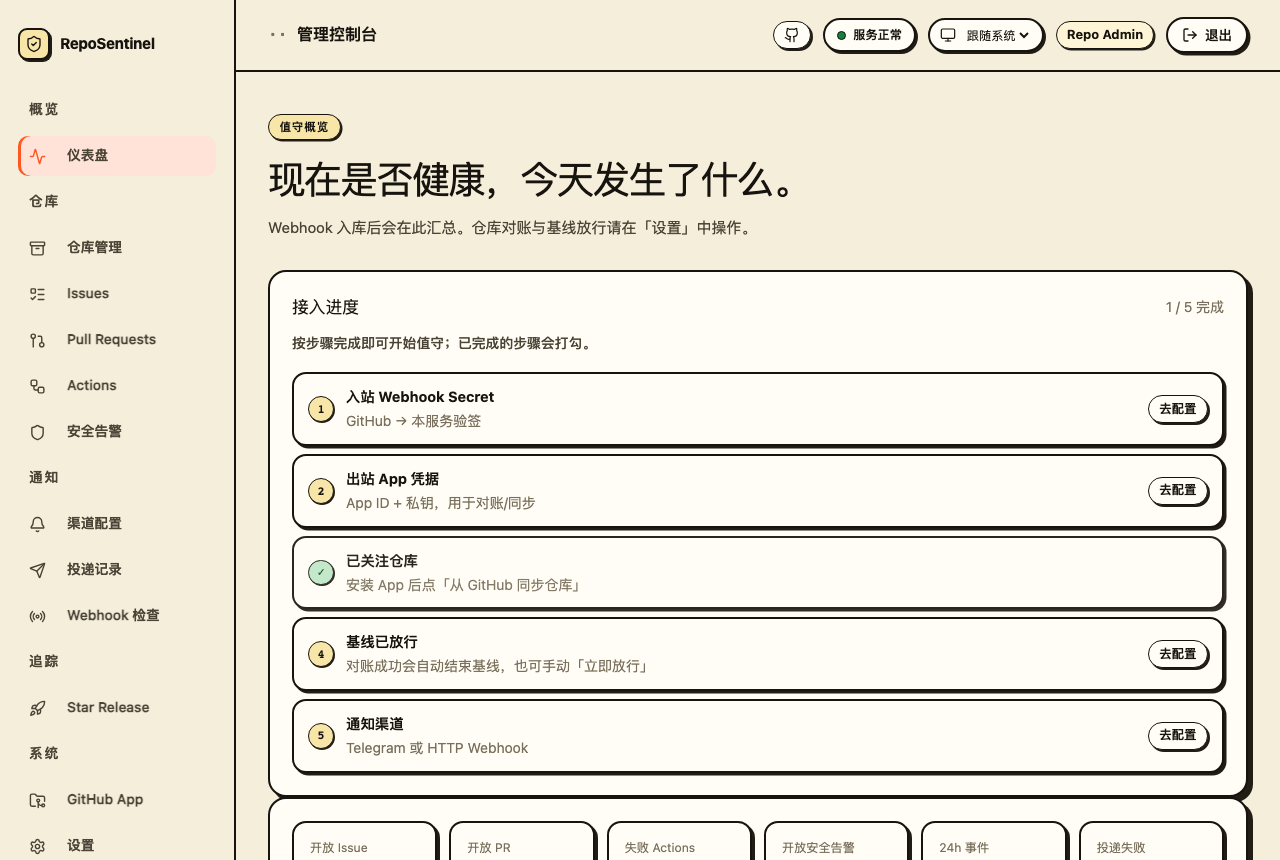
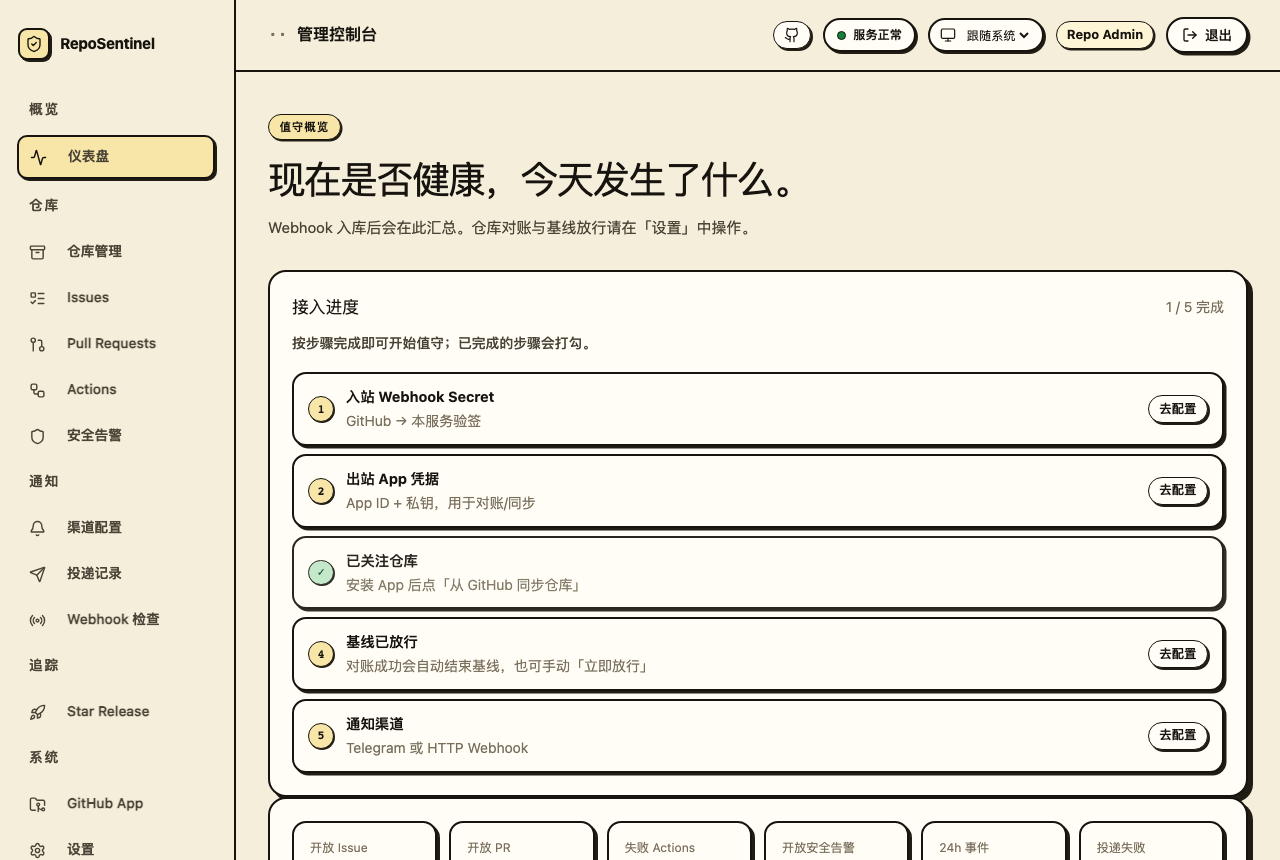
✨ feat(ui/notify): 优化界面导航与徽标设计，并增强通知主题色中文语义识别

diff --git a/web/src/styles/globals.css b/web/src/styles/globals.css
@@ -538,26 +538,28 @@ a.primary-button {
   background: color-mix(in oklch, var(--accent) 10%, var(--bg-muted));
 }
 
-/* 选中态：浅底 + 强调色文字，避免实心强调色上字看不清 */
+/* 选中态：复古新粗野主义高亮块，实体墨水描边与微物理阴影 */
 .app-nav a[aria-current="page"] {
-  color: var(--accent);
-  background: color-mix(in oklch, var(--accent) 16%, var(--bg-surface));
-  font-weight: 700;
-  box-shadow: inset 3px 0 0 var(--accent);
+  color: var(--ink);
+  background: var(--bg-panel-warm);
+  font-weight: 750;
+  border: 2px solid var(--border-subtle);
+  box-shadow: 2px 2px 0 var(--shadow-neo);
+  transform: translate(-1px, -1px);
 }
 
 .app-nav a[aria-current="page"]:hover {
-  color: var(--accent);
-  background: color-mix(in oklch, var(--accent) 20%, var(--bg-surface));
+  color: var(--ink);
+  background: var(--bg-panel-warm);
 }
 
-/* 侧边栏导航徽章：高对比数字，避免被父级 span 半透明规则污染 */
+/* 侧边栏导航徽章：1.5px 粗黑边框胶囊徽章，丝网印刷实体色彩 */
 .nav-badge {
   margin-left: auto;
   min-width: 20px;
   height: 20px;
   padding: 0 6px;
-  border-radius: 999px;
+  border-radius: 9999px;
   font-size: 0.72rem;
   font-weight: 800;
   display: inline-flex;
@@ -568,31 +570,32 @@ a.primary-button {
   line-height: 1;
   opacity: 1;
   letter-spacing: 0;
-  box-shadow: 0 0 0 1px color-mix(in oklch, var(--accent) 35%, transparent);
+  border: 1.5px solid var(--border-subtle);
+  box-shadow: 1px 1px 0 var(--shadow-neo);
 }
 
 .nav-badge--info {
-  color: var(--info);
-  background: color-mix(in oklch, var(--info) 15%, var(--bg-surface));
-  box-shadow: 0 0 0 1px color-mix(in oklch, var(--info) 30%, transparent);
+  color: var(--info-fg);
+  background: var(--info-bg);
+  border: 1.5px solid var(--border-subtle);
 }
 
 .nav-badge--success {
-  color: var(--success);
-  background: color-mix(in oklch, var(--success) 15%, var(--bg-surface));
-  box-shadow: 0 0 0 1px color-mix(in oklch, var(--success) 30%, transparent);
+  color: var(--success-fg);
+  background: var(--success-bg);
+  border: 1.5px solid var(--border-subtle);
 }
 
 .nav-badge--warning {
-  color: var(--warning);
-  background: color-mix(in oklch, var(--warning) 15%, var(--bg-surface));
-  box-shadow: 0 0 0 1px color-mix(in oklch, var(--warning) 30%, transparent);
+  color: var(--warning-fg);
+  background: var(--warning-bg);
+  border: 1.5px solid var(--border-subtle);
 }
 
 .nav-badge--danger {
-  color: var(--danger);
-  background: color-mix(in oklch, var(--danger) 15%, var(--bg-surface));
-  box-shadow: 0 0 0 1px color-mix(in oklch, var(--danger) 30%, transparent);
+  color: var(--danger-fg);
+  background: var(--danger-bg);
+  border: 1.5px solid var(--border-subtle);
 }
 
 .app-main {
@@ -2549,29 +2552,29 @@ a.status-item--link:focus-visible {
 
 .mt-md { margin-top: 0.75rem; }
 
-/* ── 事件状态颜色（令牌化：--state-* 提供 light/dark 双档） ── */
+/* ── 事件状态颜色（实体令色 + 1.5px 墨水描边） ── */
 
 .state-open,
-.state-reopened { background: color-mix(in oklch, var(--state-open) 18%, var(--bg-surface)); color: var(--state-open); }
-.state-closed { background: color-mix(in oklch, var(--state-closed) 16%, var(--bg-surface)); color: var(--state-closed); }
+.state-reopened { background: var(--success-bg); color: var(--success-fg); border: 1.5px solid var(--border-subtle); }
+.state-closed { background: var(--bg-muted); color: var(--text-secondary); border: 1.5px solid var(--border-subtle); }
 .state-completed,
-.state-merged { background: color-mix(in oklch, var(--state-merged) 14%, var(--bg-surface)); color: var(--state-merged); }
-.state-success { background: color-mix(in oklch, var(--state-closed) 16%, var(--bg-surface)); color: var(--state-closed); }
+.state-merged { background: var(--bg-panel-warm); color: var(--ink); border: 1.5px solid var(--border-subtle); }
+.state-success { background: var(--success-bg); color: var(--success-fg); border: 1.5px solid var(--border-subtle); }
 .state-failure,
 .state-cancelled,
-.state-timed_out { background: color-mix(in oklch, var(--state-failure) 14%, var(--bg-surface)); color: var(--state-failure); }
+.state-timed_out { background: var(--danger-bg); color: var(--danger-fg); border: 1.5px solid var(--border-subtle); }
 .state-dismissed,
 .state-resolved,
 .state-skipped,
 .state-auto_dismissed,
-.state-withdrawn { background: color-mix(in oklch, var(--state-muted) 14%, var(--bg-surface)); color: var(--state-muted); }
+.state-withdrawn { background: var(--bg-muted); color: var(--text-muted); border: 1.5px solid var(--border-subtle); }
 /* 安全告警终态：已修复与关闭/成功同色（绿色），与「已忽略」类灰色取消态区分。 */
-.state-fixed { background: color-mix(in oklch, var(--state-closed) 16%, var(--bg-surface)); color: var(--state-closed); }
-.state-action_required { background: color-mix(in oklch, var(--state-open) 14%, var(--bg-surface)); color: var(--state-open); }
+.state-fixed { background: var(--success-bg); color: var(--success-fg); border: 1.5px solid var(--border-subtle); }
+.state-action_required { background: var(--warning-bg); color: var(--warning-fg); border: 1.5px solid var(--border-subtle); }
 .state-in_progress,
 .state-queued,
 .state-pending,
-.state-waiting { background: color-mix(in oklch, var(--state-info) 14%, var(--bg-surface)); color: var(--state-info); }
+.state-waiting { background: var(--info-bg); color: var(--info-fg); border: 1.5px solid var(--border-subtle); }
 
 .event-repo {
   display: inline-block;
@@ -2877,21 +2880,21 @@ a.status-item--link:focus-visible {
   border: 1.5px solid var(--border-subtle);
 }
 
-/* ── 事件类型样式 ── */
+/* ── 事件类型样式（实体令色 + 1.5px 墨水描边） ── */
 
-.kind-issue { background: color-mix(in oklch, var(--kind-issue) 14%, var(--bg-surface)); color: var(--kind-issue); }
-.kind-pull_request { background: color-mix(in oklch, var(--kind-pull_request) 14%, var(--bg-surface)); color: var(--kind-pull_request); }
-.kind-workflow_run { background: color-mix(in oklch, var(--kind-workflow_run) 14%, var(--bg-surface)); color: var(--kind-workflow_run); }
-.kind-dependabot { background: color-mix(in oklch, var(--kind-dependabot) 14%, var(--bg-surface)); color: var(--kind-dependabot); }
-.kind-code_scanning { background: color-mix(in oklch, var(--kind-code_scanning) 14%, var(--bg-surface)); color: var(--kind-code_scanning); }
-.kind-secret_scanning { background: color-mix(in oklch, var(--kind-secret_scanning) 14%, var(--bg-surface)); color: var(--kind-secret_scanning); }
-.kind-release { background: color-mix(in oklch, var(--kind-release) 14%, var(--bg-surface)); color: var(--kind-release); }
-.kind-star { background: color-mix(in oklch, var(--kind-star) 14%, var(--bg-surface)); color: var(--kind-star); }
-.kind-watch { background: color-mix(in oklch, var(--kind-watch) 14%, var(--bg-surface)); color: var(--kind-watch); }
+.kind-issue { background: var(--bg-surface); color: var(--text-primary); border: 1.5px solid var(--border-subtle); }
+.kind-pull_request { background: var(--bg-panel-warm-light); color: var(--ink); border: 1.5px solid var(--border-subtle); }
+.kind-workflow_run { background: var(--info-bg); color: var(--info-fg); border: 1.5px solid var(--border-subtle); }
+.kind-dependabot { background: var(--warning-bg); color: var(--warning-fg); border: 1.5px solid var(--border-subtle); }
+.kind-code_scanning { background: var(--warning-bg); color: var(--warning-fg); border: 1.5px solid var(--border-subtle); }
+.kind-secret_scanning { background: var(--danger-bg); color: var(--danger-fg); border: 1.5px solid var(--border-subtle); }
+.kind-release { background: var(--success-bg); color: var(--success-fg); border: 1.5px solid var(--border-subtle); }
+.kind-star { background: var(--bg-panel-warm); color: var(--ink); border: 1.5px solid var(--border-subtle); }
+.kind-watch { background: var(--bg-muted); color: var(--text-secondary); border: 1.5px solid var(--border-subtle); }
 
 .event-action {
   font-size: 0.78rem;
-  font-weight: 600;
+  font-weight: 650;
   color: var(--text-secondary);
 }
 
@@ -2903,24 +2906,26 @@ a.status-item--link:focus-visible {
 }
 
 .severity {
-  font-size: 0.7rem;
-  font-weight: 600;
-  padding: 0.15rem 0.5rem;
-  border-radius: 999px;
+  font-size: 0.72rem;
+  font-weight: 750;
+  padding: 0.15rem 0.55rem;
+  border-radius: 9999px;
+  border: 1.5px solid var(--border-subtle);
+  box-shadow: 1px 1px 0 var(--shadow-neo);
 }
 
-.severity-critical { color: var(--severity-critical); background: color-mix(in oklch, var(--severity-critical) 14%, transparent); }
+.severity-critical { color: var(--danger-fg); background: var(--danger-bg); }
 .severity-high,
-.severity-error { color: var(--severity-high); background: color-mix(in oklch, var(--severity-high) 14%, transparent); }
+.severity-error { color: var(--danger-fg); background: var(--danger-bg); }
 .severity-medium,
-.severity-warning { color: var(--severity-medium); background: color-mix(in oklch, var(--severity-medium) 14%, transparent); }
+.severity-warning { color: var(--warning-fg); background: var(--warning-bg); }
 .severity-low,
-.severity-note { color: var(--severity-low); background: color-mix(in oklch, var(--severity-low) 14%, transparent); }
+.severity-note { color: var(--info-fg); background: var(--info-bg); }
 
-.status-pending { background: color-mix(in oklch, var(--info) 14%, var(--bg-surface)); color: var(--info); }
-.status-sending { background: color-mix(in oklch, var(--warning) 14%, var(--bg-surface)); color: var(--warning); }
-.status-sent { background: color-mix(in oklch, var(--success) 14%, var(--bg-surface)); color: var(--success); }
-.status-dead { background: color-mix(in oklch, var(--danger) 14%, var(--bg-surface)); color: var(--danger); }
+.status-pending { background: var(--info-bg); color: var(--info-fg); border: 1.5px solid var(--border-subtle); }
+.status-sending { background: var(--warning-bg); color: var(--warning-fg); border: 1.5px solid var(--border-subtle); }
+.status-sent { background: var(--success-bg); color: var(--success-fg); border: 1.5px solid var(--border-subtle); }
+.status-dead { background: var(--danger-bg); color: var(--danger-fg); border: 1.5px solid var(--border-subtle); }
 
 .error-code {
   font-size: 0.75rem;

diff --git a/internal/notify/channels.go b/internal/notify/channels.go
@@ -50,6 +50,10 @@ var (
 	themeSuccessKeywords = []string{
 		"success", "succeeded", "passed", "ready to merge", "fixed", "resolved",
 	}
+
+	themeCriticalChinese = []string{"严重", "高危", "失败", "阻断"}
+	themeWarningChinese  = []string{"警告", "中危", "需人工审查", "需测试"}
+	themeSuccessChinese  = []string{"成功", "通过", "可合并", "已修复"}
 )
 
 // containsAnyWord 判定文本（已小写）是否包含任一**完整单词**关键词。
@@ -114,17 +118,28 @@ func determineMessageTheme(title, body string) (feishuColor string, discordColor
 	if containsAnyRune(title, "✅", "🟢", "🟣") {
 		return "turquoise", 0x10B981
 	}
-	lower := strings.ToLower(title + " " + body)
-	if containsAnyWord(lower, themeCriticalKeywords) {
+	combined := title + " " + body
+	lower := strings.ToLower(combined)
+	if containsAnyWord(lower, themeCriticalKeywords) || containsAnySubstr(combined, themeCriticalChinese) {
 		return "carmine", 0xEF4444
 	}
-	if containsAnyWord(lower, themeWarningKeywords) {
+	if containsAnyWord(lower, themeWarningKeywords) || containsAnySubstr(combined, themeWarningChinese) {
 		return "orange", 0xF59E0B
 	}
-	if containsAnyWord(lower, themeSuccessKeywords) {
+	if containsAnyWord(lower, themeSuccessKeywords) || containsAnySubstr(combined, themeSuccessChinese) {
 		return "turquoise", 0x10B981
 	}
 	return "blue", 0x3B82F6
+}
+
+// containsAnySubstr 判定文本是否包含任一子串（如中文状态短语）。
+func containsAnySubstr(text string, substrs []string) bool {
+	for _, s := range substrs {
+		if strings.Contains(text, s) {
+			return true
+		}
+	}
+	return false
 }
 
 // containsAnyRune 判定文本是否包含任一字面量标记（emoji/符号）。

diff --git a/internal/notify/channels_test.go b/internal/notify/channels_test.go
@@ -279,6 +279,11 @@ func TestDetermineMessageThemeWordBoundaries(t *testing.T) {
 		{title: "merge risk", body: "high-risk change touching auth", wantFeishu: "carmine", wantDiscord: 0xEF4444},
 		{title: "Review done", body: "maintainer verdict: Block Risk", wantFeishu: "carmine", wantDiscord: 0xEF4444},
 		{title: "Dependabot medium alert", body: "moderate severity", wantFeishu: "orange", wantDiscord: 0xF59E0B},
+		// 中文状态词条支持
+		{title: "安全扫描预警", body: "发现高危漏洞需立即修复", wantFeishu: "carmine", wantDiscord: 0xEF4444},
+		{title: "PR 审查建议", body: "维护者裁决：阻断风险", wantFeishu: "carmine", wantDiscord: 0xEF4444},
+		{title: "每日汇总报告", body: "所有健康检查均已通过且成功", wantFeishu: "turquoise", wantDiscord: 0x10B981},
+		{title: "Issue 报告", body: "发现中危配置需要关注，包含警告", wantFeishu: "orange", wantDiscord: 0xF59E0B},
 	}
 
 	for _, tc := range tests {
